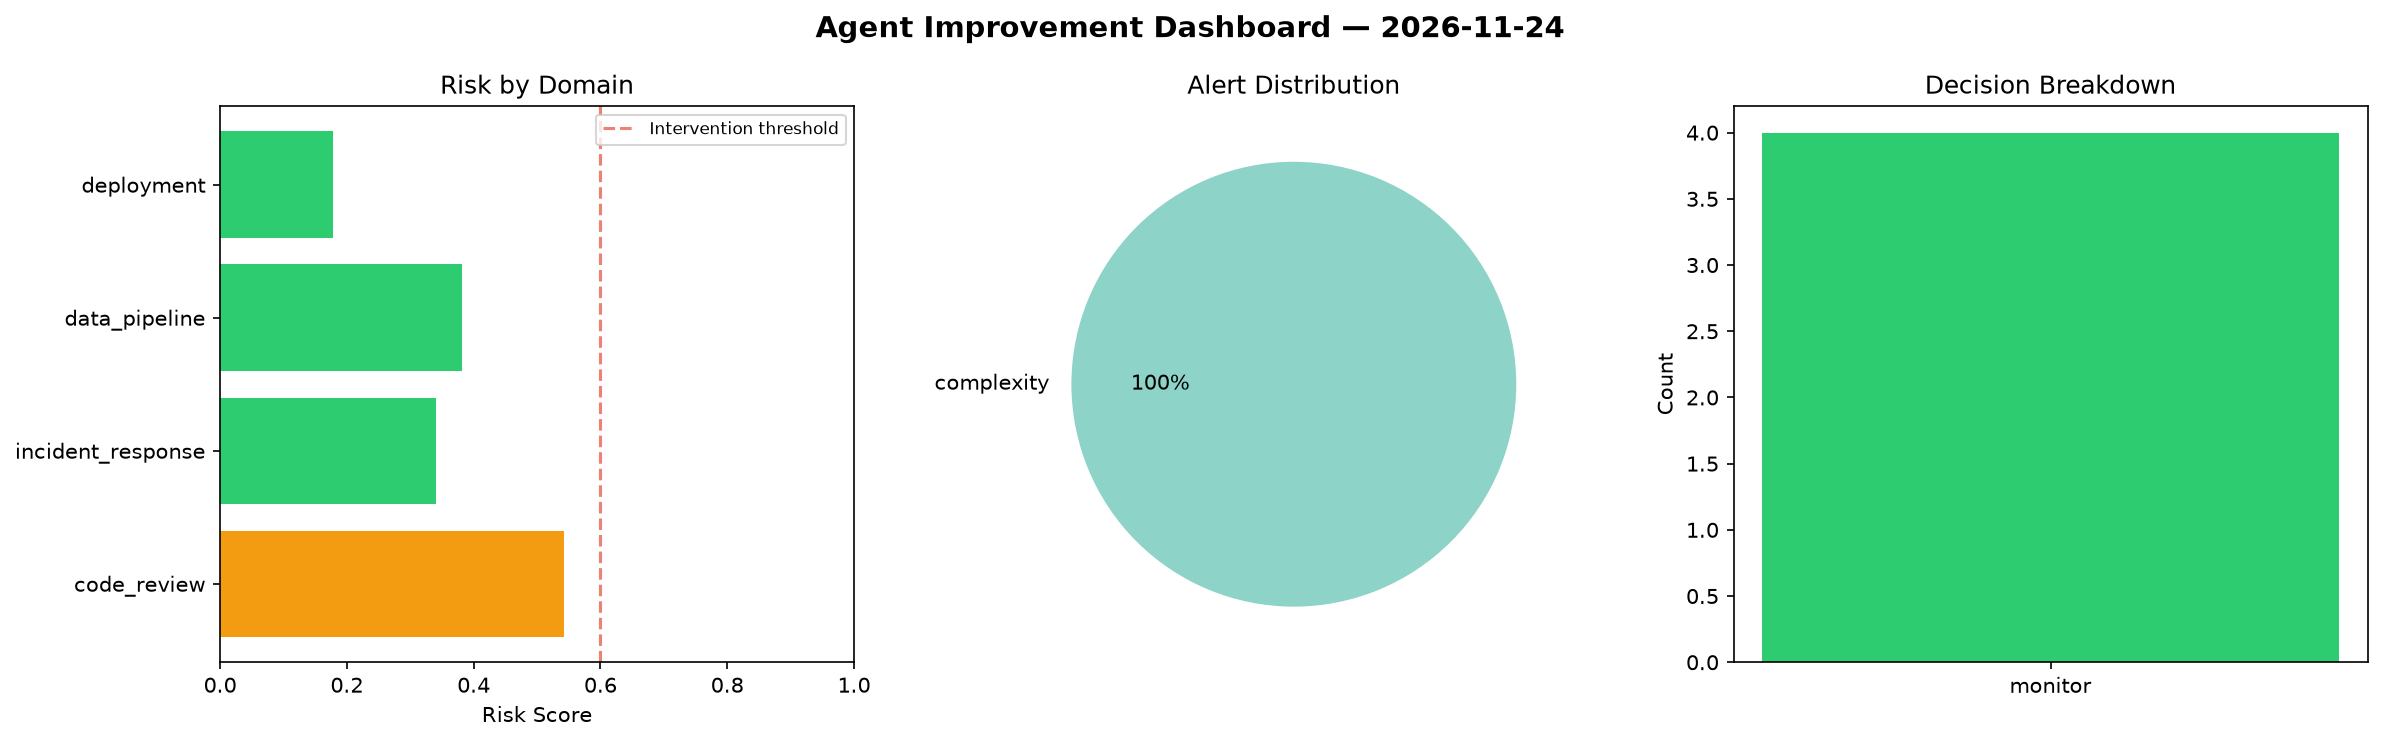
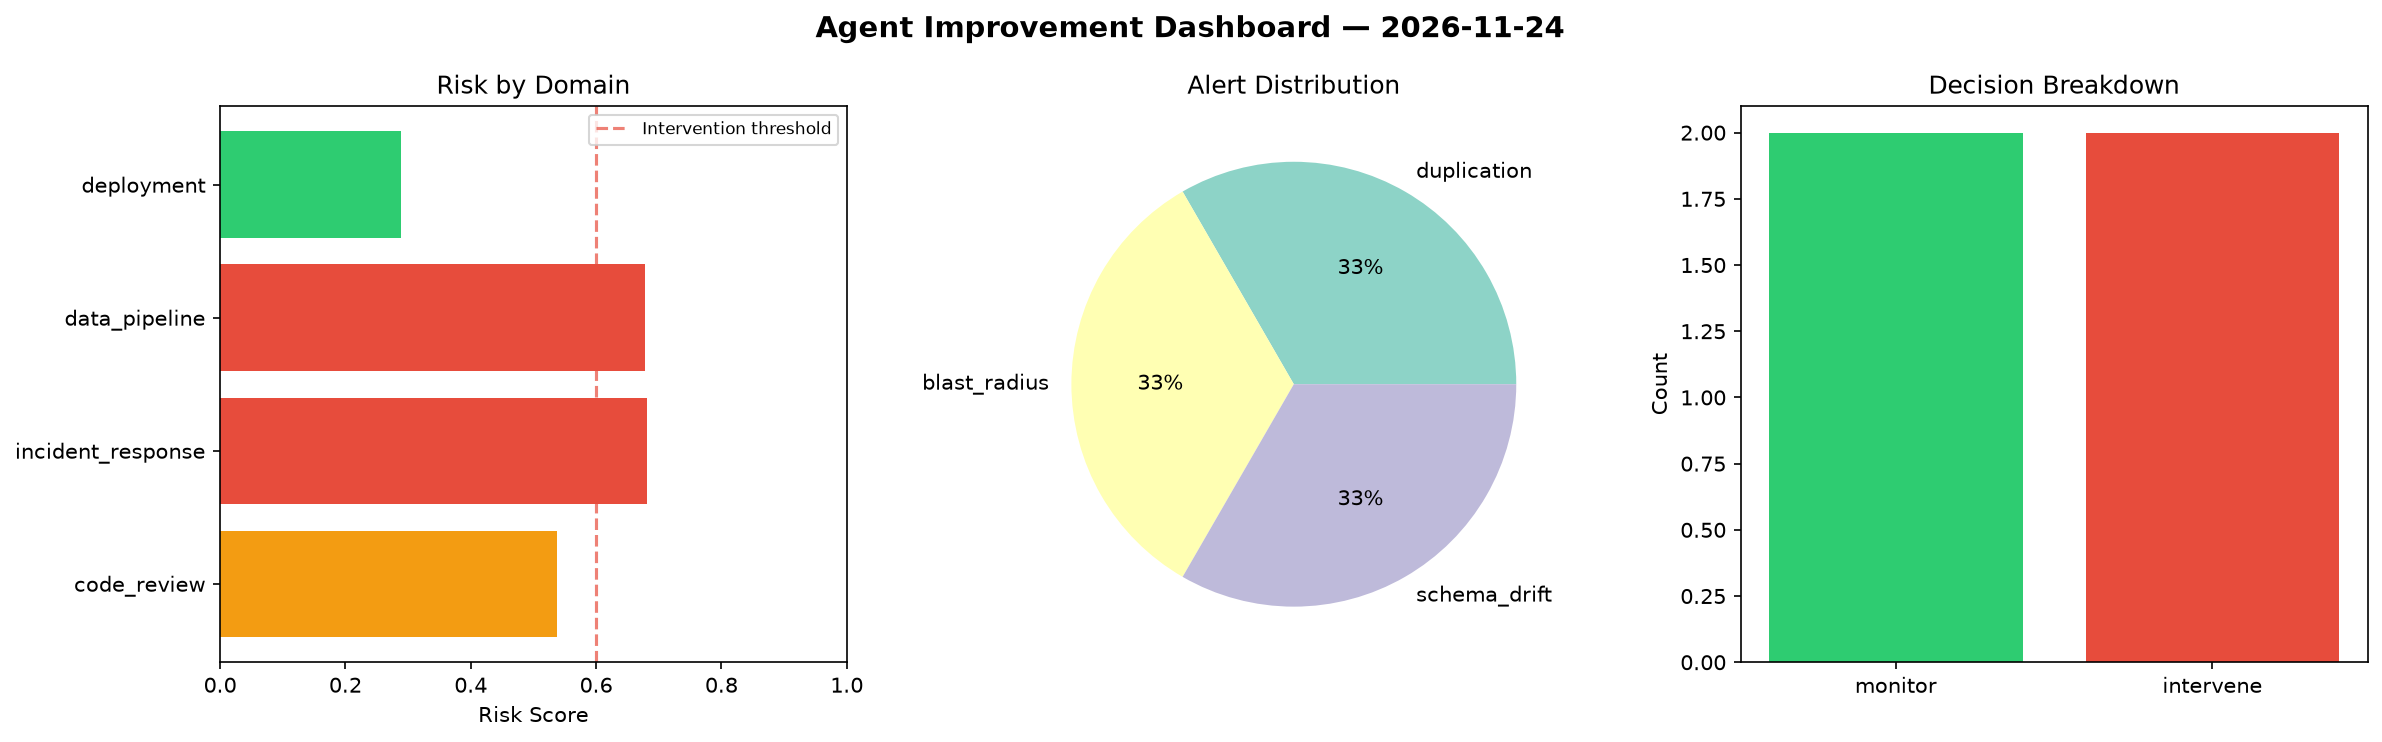
agent-improvement: daily cycle 2026-11-24T12:24

diff --git a/logs/2026-11-24.md b/logs/2026-11-24.md
@@ -1,6 +1,6 @@
 # Agent Improvement Report — 2026-11-24
 
-**Cycle ID:** `f6904534` | **Avg Risk:** 0.3608 | **Interventions:** 0/4
+**Cycle ID:** `9e3bff18` | **Avg Risk:** 0.5464 | **Interventions:** 2/4
 
 ![Dashboard](2026-11-24_dashboard.png)
 
@@ -10,18 +10,18 @@
 
 | Domain | Risk Score | Decision | Alerts |
 |--------|-----------|----------|--------|
-| code_review | 0.5424 | monitor | complexity |
-| incident_response | 0.3413 | monitor | none |
-| data_pipeline | 0.3812 | monitor | none |
-| deployment | 0.1784 | monitor | none |
+| code_review | 0.5378 | monitor | duplication |
+| incident_response | 0.6819 | intervene | blast_radius |
+| data_pipeline | 0.6772 | intervene | schema_drift |
+| deployment | 0.2888 | monitor | none |
 
 ## Delta vs Yesterday
 
 | Domain | Today | Yesterday | Change |
 |--------|-------|-----------|--------|
-| code_review | 0.5424 | 0.7152 | 📉 -24.2% |
-| incident_response | 0.3413 | 0.6008 | 📉 -43.2% |
-| data_pipeline | 0.3812 | 0.5259 | 📉 -27.5% |
-| deployment | 0.1784 | 0.5757 | 📉 -69.0% |
+| code_review | 0.5378 | 0.7152 | 📉 -24.8% |
+| incident_response | 0.6819 | 0.6008 | 📈 13.5% |
+| data_pipeline | 0.6772 | 0.5259 | 📈 28.8% |
+| deployment | 0.2888 | 0.5757 | 📉 -49.8% |
 
 **Refinement:** `{'adjustment': 'maintain', 'trend': 'improving', 'window': 4}`
